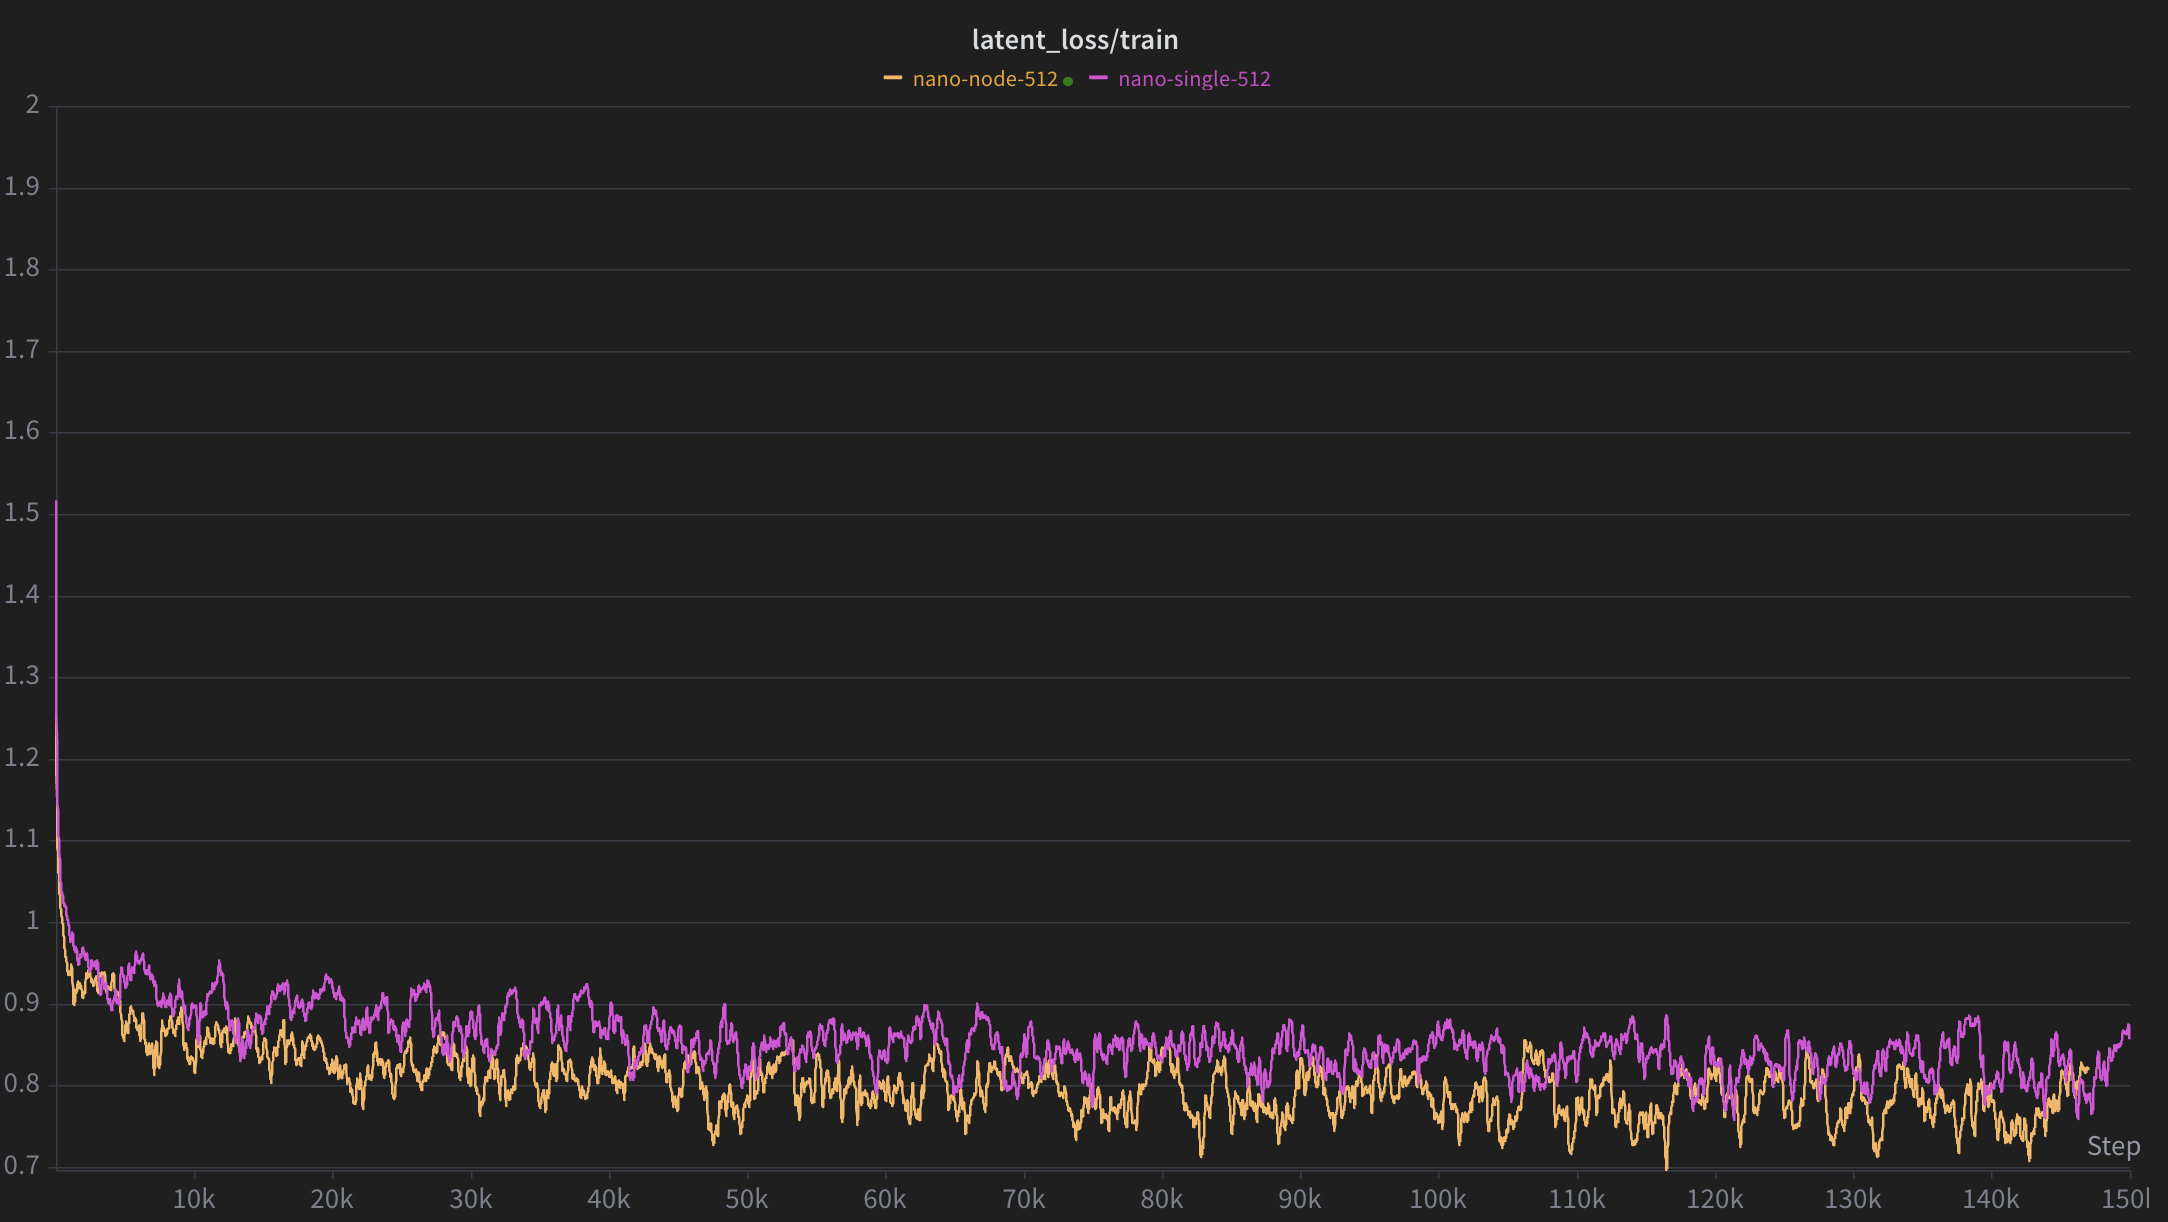
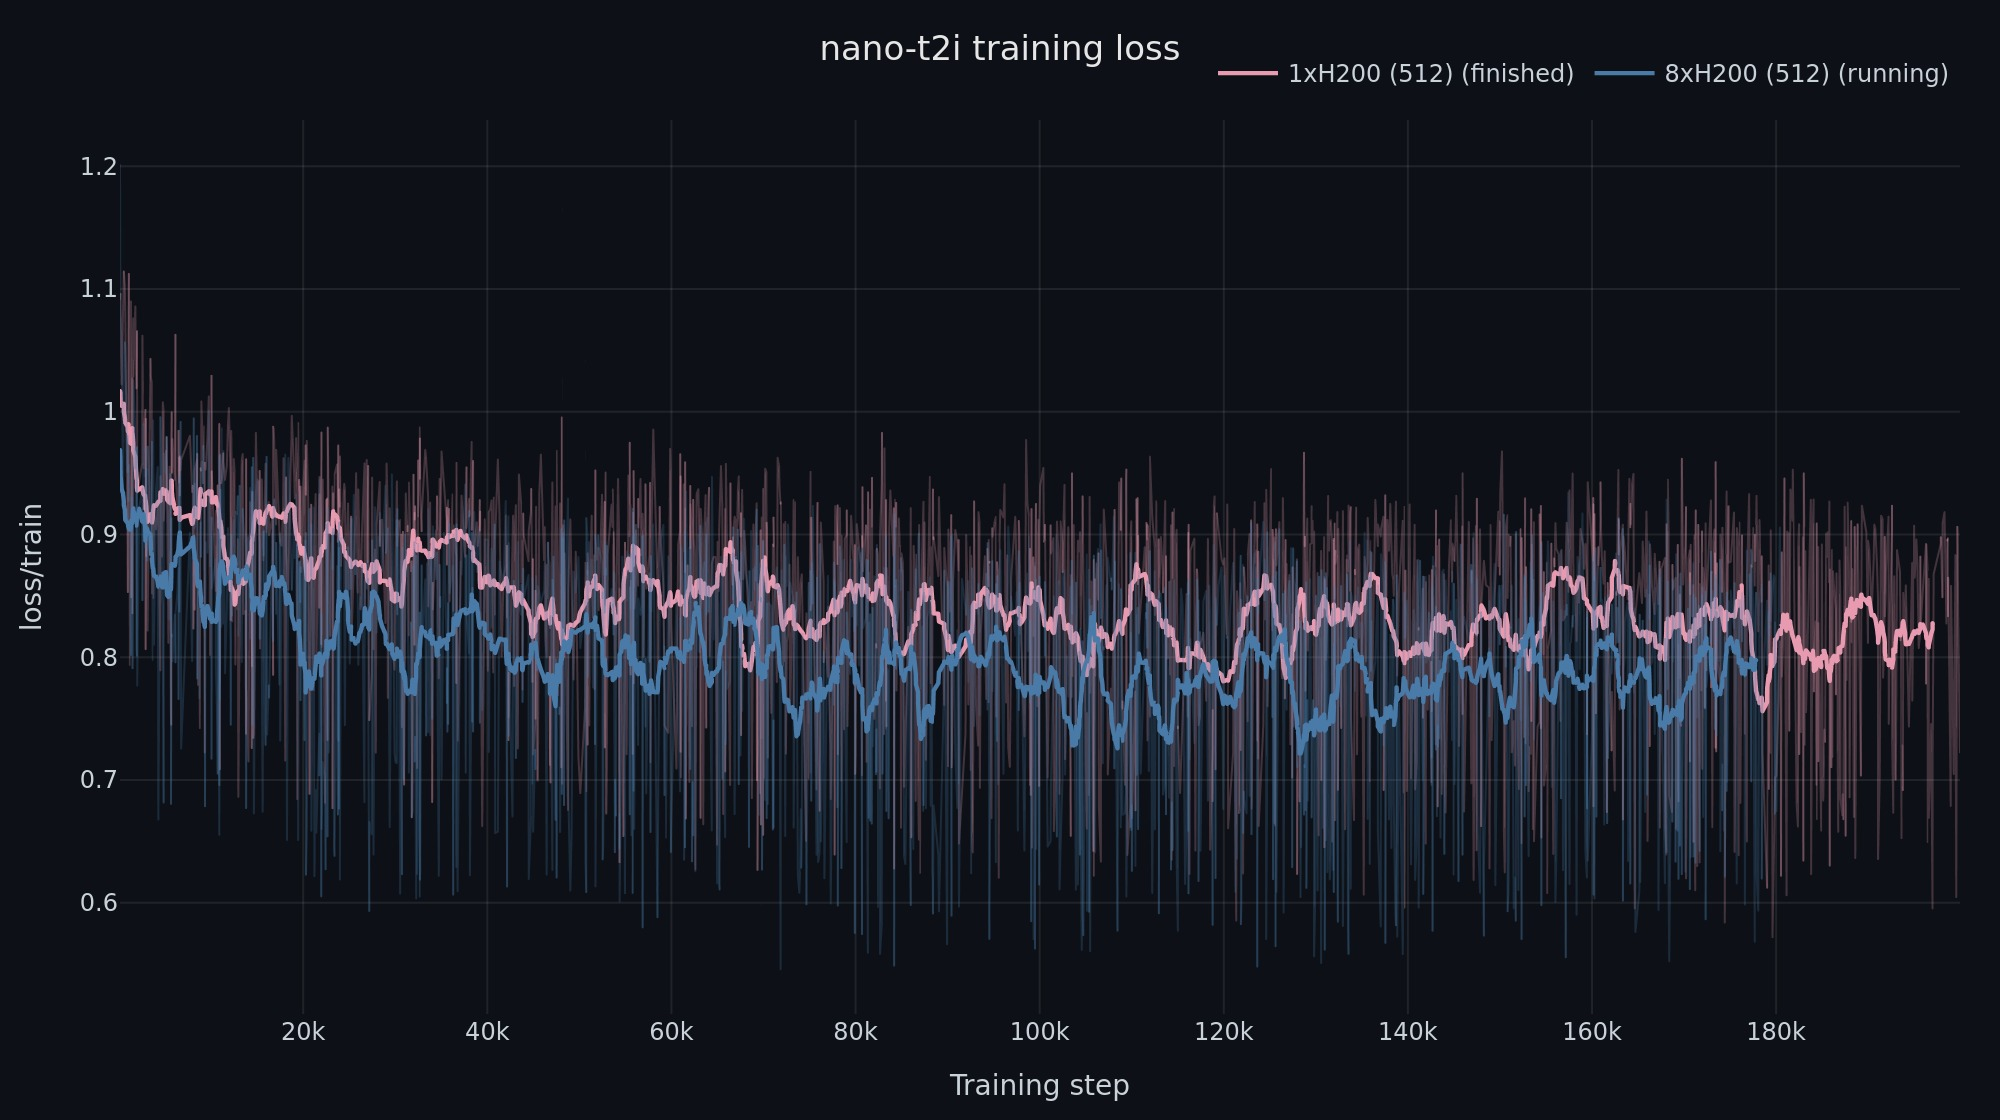
Enhance README with detailed project overview, results, and setup instructions; add TODO file for future tasks; improve logging in training and diffusion model code for better debugging; update training curve image.

diff --git a/src/nano_t2i/trainer/trainer.py b/src/nano_t2i/trainer/trainer.py
@@ -102,7 +102,7 @@ class TrainingPipeline(pl.LightningModule):
 
     def on_after_backward(self, *args, **kwargs) -> None:
         if self.global_rank == 0:
-            logging.info("on_after_backward")
+            logging.debug("on_after_backward")
         self.model.on_after_backward(
             forward_count=self.training_forward_pass_counter, *args, **kwargs
         )
@@ -111,19 +111,19 @@ class TrainingPipeline(pl.LightningModule):
         self, outputs: Dict[str, Any], batch: Any, batch_idx: int
     ) -> None:
         if self.global_rank == 0:
-            logging.info("START on_train_batch_end")
+            logging.debug("START on_train_batch_end")
         if self.global_rank == 0:
-            logging.info("on_train_batch_end")
+            logging.debug("on_train_batch_end")
         self.model.on_train_batch_end(batch)
 
         average_time_frequency = 10
         if self.global_rank == 0 and batch_idx % average_time_frequency == 0:
             delta = time.perf_counter() - self.timer
-            logging.info(
+            logging.debug(
                 f"Average time per batch {batch_idx} took {delta / (batch_idx + 1)} seconds"
             )
         if self.global_rank == 0:
-            logging.info("END on_train_batch_end")
+            logging.debug("END on_train_batch_end")
 
     def configure_optimizers(self) -> List[torch.optim.Optimizer]:
         """
@@ -252,8 +252,7 @@ class TrainingPipeline(pl.LightningModule):
 
     def training_step(self, train_batch: Dict[str, Any], batch_idx: int) -> dict:
         logging.debug("START training_step")
-        print("--------------------------------")
-        # print(f"Train batch urls: {train_batch['__url__']}")
+        logging.debug("--------------------------------")
         if self.automatic_optimization:
             model_forward_start_time = time.perf_counter()
             model_output = self.model(
@@ -262,14 +261,22 @@ class TrainingPipeline(pl.LightningModule):
                 forward_count=self.training_forward_pass_counter,
             )
             model_forward_end_time = time.perf_counter()
-            logging.info(
+            logging.debug(
                 f"Model forward time: {model_forward_end_time - model_forward_start_time} seconds"
             )
             self.training_forward_pass_counter += 1
 
             loss = model_output["loss"]
-            logging.info(
+            logging.debug(
                 f"loss: {loss}, global_rank:{self.global_rank}, local_rank:{self.local_rank}"
+            )
+            self.log(
+                "loss",
+                loss,
+                prog_bar=True,
+                on_step=True,
+                on_epoch=False,
+                logger=False,
             )
 
             # get all loss-liked quantities
@@ -374,7 +381,7 @@ class TrainingPipeline(pl.LightningModule):
                 current_opt.step()
                 current_opt.zero_grad()
 
-        logging.info("END training_step")
+        logging.debug("END training_step")
         return outputs
 
     def validation_step(self, val_batch: Dict[str, Any], val_idx: int) -> dict:

diff --git a/src/nano_t2i/models/diffusion/diffusion_model.py b/src/nano_t2i/models/diffusion/diffusion_model.py
@@ -107,7 +107,7 @@ class DiffusionModel(BaseModel):
         else:
             z = batch[self.input_key]
 
-        print("Time to get VAE embedding", time.perf_counter() - start_time)
+        logging.debug(f"Time to get VAE embedding {time.perf_counter() - start_time}")
 
         start_time_conditioning = time.perf_counter()
         conditioning = self._get_conditioning(
@@ -115,7 +115,9 @@ class DiffusionModel(BaseModel):
             *args,
             **kwargs,
         )
-        print("Time to get conditioning", time.perf_counter() - start_time_conditioning)
+        logging.debug(
+            f"Time to get conditioning {time.perf_counter() - start_time_conditioning}"
+        )
 
         # Sample noise
         noise = torch.randn_like(z)
@@ -127,7 +129,9 @@ class DiffusionModel(BaseModel):
             n_samples=z.shape[0],
             device=z.device,
         ).to(z.dtype)
-        print("Time to sample timestep", time.perf_counter() - start_timestep_sampling)
+        logging.debug(
+            f"Time to sample timestep {time.perf_counter() - start_timestep_sampling}"
+        )
 
         noisy_sample = (
             timestep.unsqueeze(-1).unsqueeze(-1).unsqueeze(-1) * noise
@@ -142,20 +146,20 @@ class DiffusionModel(BaseModel):
             conditioning=conditioning,
         )
         prediction = denoiser_output.sample
-        print("Time to predict noise", time.perf_counter() - start_time_dit)
+        logging.debug(f"Time to predict noise {time.perf_counter() - start_time_dit}")
 
         target = noise - z
 
         # Compute loss
         start_time_latent_loss = time.perf_counter()
         loss = self.latent_loss(prediction, target)
-        print(
-            "Time to compute latent loss", time.perf_counter() - start_time_latent_loss
+        logging.debug(
+            f"Time to compute latent loss {time.perf_counter() - start_time_latent_loss}"
         )
         out = {"loss": loss.mean(), "latent_loss": loss.mean()}
 
-        print(f"out: {out}")
-        print(f"Forward time: {time.perf_counter() - start_time}")
+        logging.debug(f"out: {out}")
+        logging.debug(f"Forward time: {time.perf_counter() - start_time}")
         return out
 
     def latent_loss(self, prediction, model_input):

diff --git a/src/nano_t2i/data/mappers/mappers.py b/src/nano_t2i/data/mappers/mappers.py
@@ -377,7 +377,7 @@ class GetCaptionFromJsonBasedOnNameMapper(BaseMapper):
                 continue
             elif self.verbose:
                 logging.warning(
-                    f"Key {key} not in batch for url {batch["__url__"]}. Probability for this key will be set to 0."
+                    f"Key {key} not in batch for url {batch['__url__']}. Probability for this key will be set to 0."
                 )
 
         if len(available_keys) == 0:

diff --git a/README.md b/README.md
@@ -1,21 +1,79 @@
+# nano-t2i
+
 <p align="center">
   <img src="assets/logo.svg" alt="nano-t2i" width="560"/>
 </p>
 
-<figure>
-	<p align="center">
-        	<img style="width:400px;" src="assets/monet.jpg">
-	 </p>
-</figure>
+<p align="center">
+  <img src="assets/monet.jpg" width="400"/>
+</p>
 
-**A minimal, hackable codebase to train a text-to-image (T2I) flow-matching model end-to-end on [MONET dataset](https://huggingface.co/datasets/jasperai/monet) and a single GPU**. Trains a T2I model from scratch on 1×H200 under 300$. In the spirit of [nanoGPT](https://github.com/karpathy/nanoGPT) and [nanochat](https://github.com/karpathy/nanochat), but for diffusion & flow-matching.
+**A minimal, hackable codebase to train a text-to-image (T2I) flow-matching model end-to-end on the [MONET dataset](https://huggingface.co/datasets/jasperai/monet) — on a single H200 GPU, under \$300.**
 
+---
+
+## Table of contents
+
+- [Overview](#overview)
+- [Results](#results)
+- [Setup](#setup)
+- [Dataset](#dataset)
+- [Training](#training)
+- [Demo](#demo)
+- [Citation](#citation)
+- [License](#license)
+
+---
+
+## Overview
+
+`nano-t2i` is a small DiT-style **flow-matching** text-to-image model with a Qwen3-4B text encoder and a latent VAE backbone, trained in two phases (512 → 1024) on the [MONET](https://huggingface.co/datasets/jasperai/monet) synthetic captioned-image dataset. It is built on top of [PyTorch Lightning](https://lightning.ai/) and [diffusers](https://github.com/huggingface/diffusers), and is designed to be:
+
+- **Small enough to fit on a single H200 GPU** (the `nano` config: 5 dual-stream + 5 single-stream DiT blocks, 24 attention heads, 128-dim heads, ~ to be filled in by training run).
+- **Hackable**: every architectural choice lives in the YAML config (see [`examples/trainings/configs/nano.yaml`](examples/trainings/configs/nano.yaml)).
+- **End-to-end reproducible**: from raw MONET shards to a working Gradio demo, in two commands.
+
+## Results
+
+The figure below shows the training progress for two reference runs: 1×H200 and 8×H200. It is rendered directly from the W&B run history via [`scripts/plot_training_curves.py`](scripts/plot_training_curves.py) — no screenshots. See [Regenerating the training-curve plot](#regenerating-the-training-curve-plot) below.
+
+<p align="center">
+  <img src="assets/training_curves.jpg" width="600" alt="nano-t2i training loss"/>
+</p>
+
+### Reproduced runs
+
+Cost is computed at **~\$3 / H200 / hour** (representative of major cloud GPU providers; check your own pricing). Click a thumbnail to open the full-resolution image.
+
+| Resolution | Hardware | Wall time | Cost  | Examples after 1 day of training |
+|---|---|---|---|---|
+| 512  | 1×H200 | 24 h | ~\$72  | <a href="assets/gen_single_1_day_3.jpg"><img src="assets/gen_single_1_day_3.jpg" width="140"></a> <a href="assets/gen_single_1_day_1.jpg"><img src="assets/gen_single_1_day_1.jpg" width="140"></a> <a href="assets/gen_single_1_day_2.jpg"><img src="assets/gen_single_1_day_2.jpg" width="140"></a> <a href="assets/gen_single_1_day_0.jpg"><img src="assets/gen_single_1_day_0.jpg" width="140"></a> |
+| 512  | 8×H200 | 3 h  | ~\$72  | <a href="assets/gen_node_1_day_3.jpg"><img src="assets/gen_node_1_day_3.jpg" width="140"></a> <a href="assets/gen_node_1_day_1.jpg"><img src="assets/gen_node_1_day_1.jpg" width="140"></a> <a href="assets/gen_node_1_day_2.jpg"><img src="assets/gen_node_1_day_2.jpg" width="140"></a> <a href="assets/gen_node_1_day_0.jpg"><img src="assets/gen_node_1_day_0.jpg" width="140"></a> |
+
+### Planned runs
+
+| Resolution | Hardware | Wall time | Cost   | Status |
+|---|---|---|---|---|
+| 1024 | 1×H200 | 48 h | ~\$144 | in progress |
+| 1024 | 1×H200 | 72 h | ~\$216 | in progress |
+| 1024 | 1×H200 | 96 h | ~\$288 | in progress |
 
 ## Setup
 
-To be up and running, you need first to create a virtual env with `python >=3.12` installed and activate it.
+You need Python `>=3.13` and a CUDA 12.8-compatible driver (PyTorch 2.9 / cu128 wheels are pinned in [`requirements.txt`](requirements.txt)).
 
-### With `uv`
+Clone the repo first:
+
+```shell
+git clone https://github.com/gojasper/nano-t2i.git
+cd nano-t2i
+```
+
+The recommended install path is `uv`. Two extras are available:
+- (default) — inference only: `torch`, `torchvision`, `torchaudio`.
+- `[training]` — adds `lightning`, `diffusers`, `transformers`, `wandb`, `webdataset`, `gradio`, etc. (see [`requirements-training.txt`](requirements-training.txt)).
+
+### With `uv` (recommended)
 
 ```shell
 uv venv envs/nano-t2i --python 3.13
@@ -23,7 +81,10 @@ source envs/nano-t2i/bin/activate
 uv pip install -e ".[training]"
 ```
 
-### With `virtualenv`
+<details>
+<summary>Alternative install paths (<code>virtualenv</code>, <code>conda</code>)</summary>
+
+#### With `virtualenv`
 
 ```shell
 python3.13 -m virtualenv envs/nano-t2i
@@ -32,7 +93,7 @@ pip install --upgrade pip
 pip install -e ".[training]"
 ```
 
-### With `conda`
+#### With `conda`
 
 ```shell
 conda create -n nano-t2i python=3.13
@@ -41,42 +102,41 @@ pip install --upgrade pip
 pip install -e ".[training]"
 ```
 
-## Train the model
+</details>
 
-We provide config files for the trainings in `examples/trainings/configs` as well as a script to train the model in `examples/trainings/training.py`. In particular, we provide a config to train a **nano** model (trainable on a single H100 GPU) in `examples/trainings/configs/nano.yaml`.
+## Dataset
 
-To train the model, you can run the following command:
+`nano-t2i` trains on [**MONET**](https://huggingface.co/datasets/jasperai/monet) (Massive, Open, Non-redundant and Enriched Text-to-image dataset), a curated **104.9M** image-text corpus distilled from 2.9B raw pairs across nine open sources (six real, three synthetic) with safety filtering, deduplication (pHash + SSCD), domain governance, and multi-VLM re-captioning. MONET is released under **Apache-2.0** and ships pre-computed SANA-VAE latents for direct latent-diffusion training. See the [dataset card](https://huggingface.co/datasets/jasperai/monet) for full details.
+
+## Training
+
+Training configs live in [`examples/trainings/configs/`](examples/trainings/configs); the main entrypoint is [`examples/trainings/training.py`](examples/trainings/training.py). The reference config is [`nano.yaml`](examples/trainings/configs/nano.yaml), which defines two sequential phases:
+
+1. `nano-512` — 200k steps at 512×512.
+2. `nano-1024` — 500k steps at 1024×1024, resumed from phase 1.
 
 ```shell
-python examples/trainings/training.py examples/trainings/configs/nano.yaml
+python examples/trainings/training.py --path_config examples/trainings/configs/nano.yaml
 ```
 
-Once the training is launched, you can visualize the training progress on [wandb](https://wandb.ai). Checkpoints will be saved in the `examples/trainings/nano-t2i/checkpoints` directory.
+### Logging with Weights & Biases
 
-## Results
+Training metrics are logged to W&B under the `Nano-T2I` project (configurable via `logging.wandb_project` in the YAML). To authenticate:
 
-Below is an example of the training progress for two training runs 1) on a single H200 GPU and 2) on a 8 H200 GPUs.
+```shell
+# interactive
+wandb login
+# or
+export WANDB_API_KEY=...
+```
 
+### Checkpoints
 
-<figure>
-	<p align="center">
-        	<img style="width:400px;" src="assets/training_curves.jpg">
-	 </p>
-</figure>
-
-| Resolution | Hardware | Wall time | Cost (@ $3/H200/h) | Examples after 1 day of training |
-|---|---|---|---|---|
-| 512  | 1×H200 | 24 h | ~\$72  |  <img src="assets/gen_single_1_day_3.jpg" width="100"> <img src="assets/gen_single_1_day_1.jpg" width="100"> <img src="assets/gen_single_1_day_2.jpg" width="100"> <img src="assets/gen_single_1_day_0.jpg" width="100"> |
-| 512  | 1×H200 | 36 h  | ~\$108  | |
-| 1024 | 1×H200 | 48 h  | ~\$144  | |
-| 1024 | 1×H200 | 72 h  | ~\$216  | |
-| 1024 | 1×H200 | 96 h  | ~\$288  | |
+Checkpoints are written to the path specified by `training.save_ckpt_path` in each phase of the config (default: `logs/nano/phase-1/` and `logs/nano/phase-2/`). Phase 2 resumes from `logs/nano/phase-1/last.ckpt` by default — make sure phase 1 has completed before launching it.
 
 ## Demo
 
-You can find a gradio demo in `examples/inference/demo/t2i_demo.py` allowing you to generate images from the trained model. In this demo, you can select the model config file and the checkpoint name to use.
-
-To run the demo, you can run the following command:
+A Gradio demo is provided in [`examples/inference/demo/t2i_demo.py`](examples/inference/demo/t2i_demo.py). It lets you pick a config file and a checkpoint name, and generate images interactively.
 
 ```shell
 python examples/inference/demo/t2i_demo.py
@@ -84,7 +144,7 @@ python examples/inference/demo/t2i_demo.py
 
 ## Citation
 
-If you use this code in your research, please cite the following paper:
+If you use this code or the MONET dataset in your research, please cite:
 
 ```bibtex
 @article{aubin2026monet,
@@ -95,23 +155,6 @@ If you use this code in your research, please cite the following paper:
 }
 ```
 
-## TODOS
+## License
 
-[ ] Add Flash-attn 3 install
-[ ] Change print to log.debug
-```shell
-	INFO:root:loss: 1.3965709209442139, global_rank:0, local_rank:0
-	INFO:root:END training_step
-	INFO:root:on_after_backward
-	INFO:root:START on_train_batch_end
-	INFO:root:on_train_batch_end
-	INFO:root:END on_train_batch_end
-	--------------------------------
-	Time to get VAE embedding 0.00010323303285986185
-	Time to get conditioning 0.06963227200321853
-	Time to sample timestep 0.044684075051918626
-	Time to predict noise 0.018585636978968978
-	Time to compute latent loss 0.0001023260410875082
-	out: {'loss': tensor(1.7208, device='cuda:0', grad_fn=<MeanBackward0>), 'latent_loss': tensor(1.7208, device='cuda:0', grad_fn=<MeanBackward0>)}
-	Forward time: 0.24001224397215992
-```
+This codebase is released under the [Apache 2.0 License](LICENSE). The MONET dataset has its own license — please consult the [dataset card](https://huggingface.co/datasets/jasperai/monet) before redistributing.

diff --git a/TODO.md b/TODO.md
@@ -1,0 +1,5 @@
+# TODO
+
+## Tasks
+
+- [ ] Add Flash-attn 3 install instructions.
